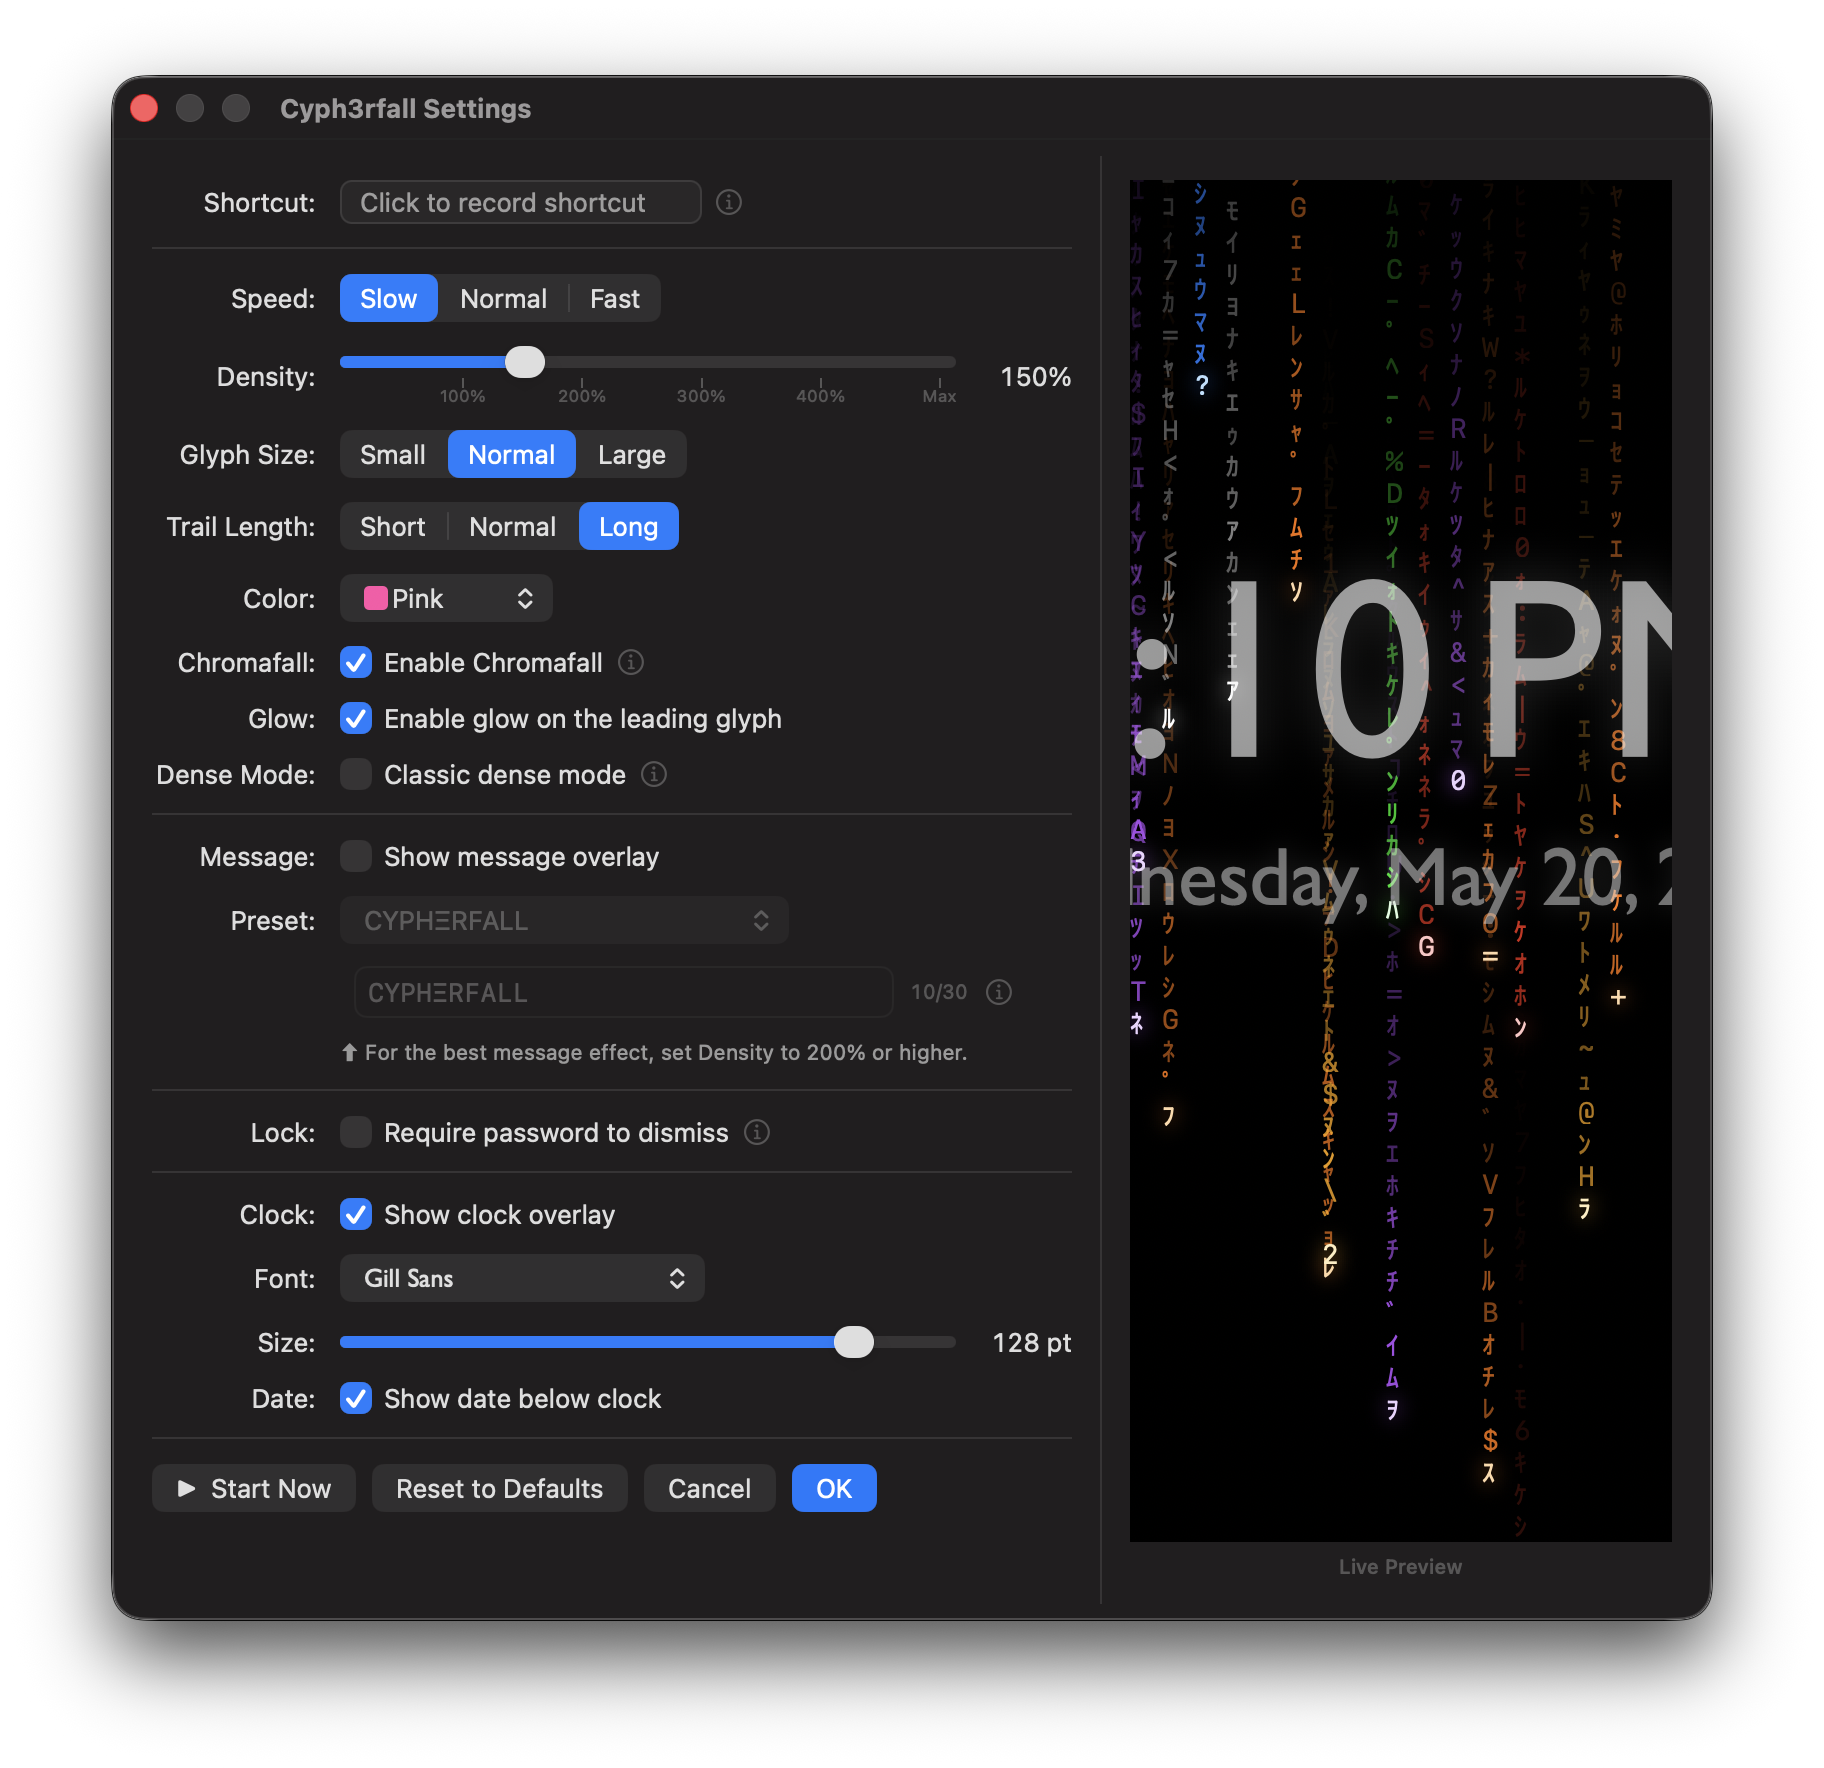
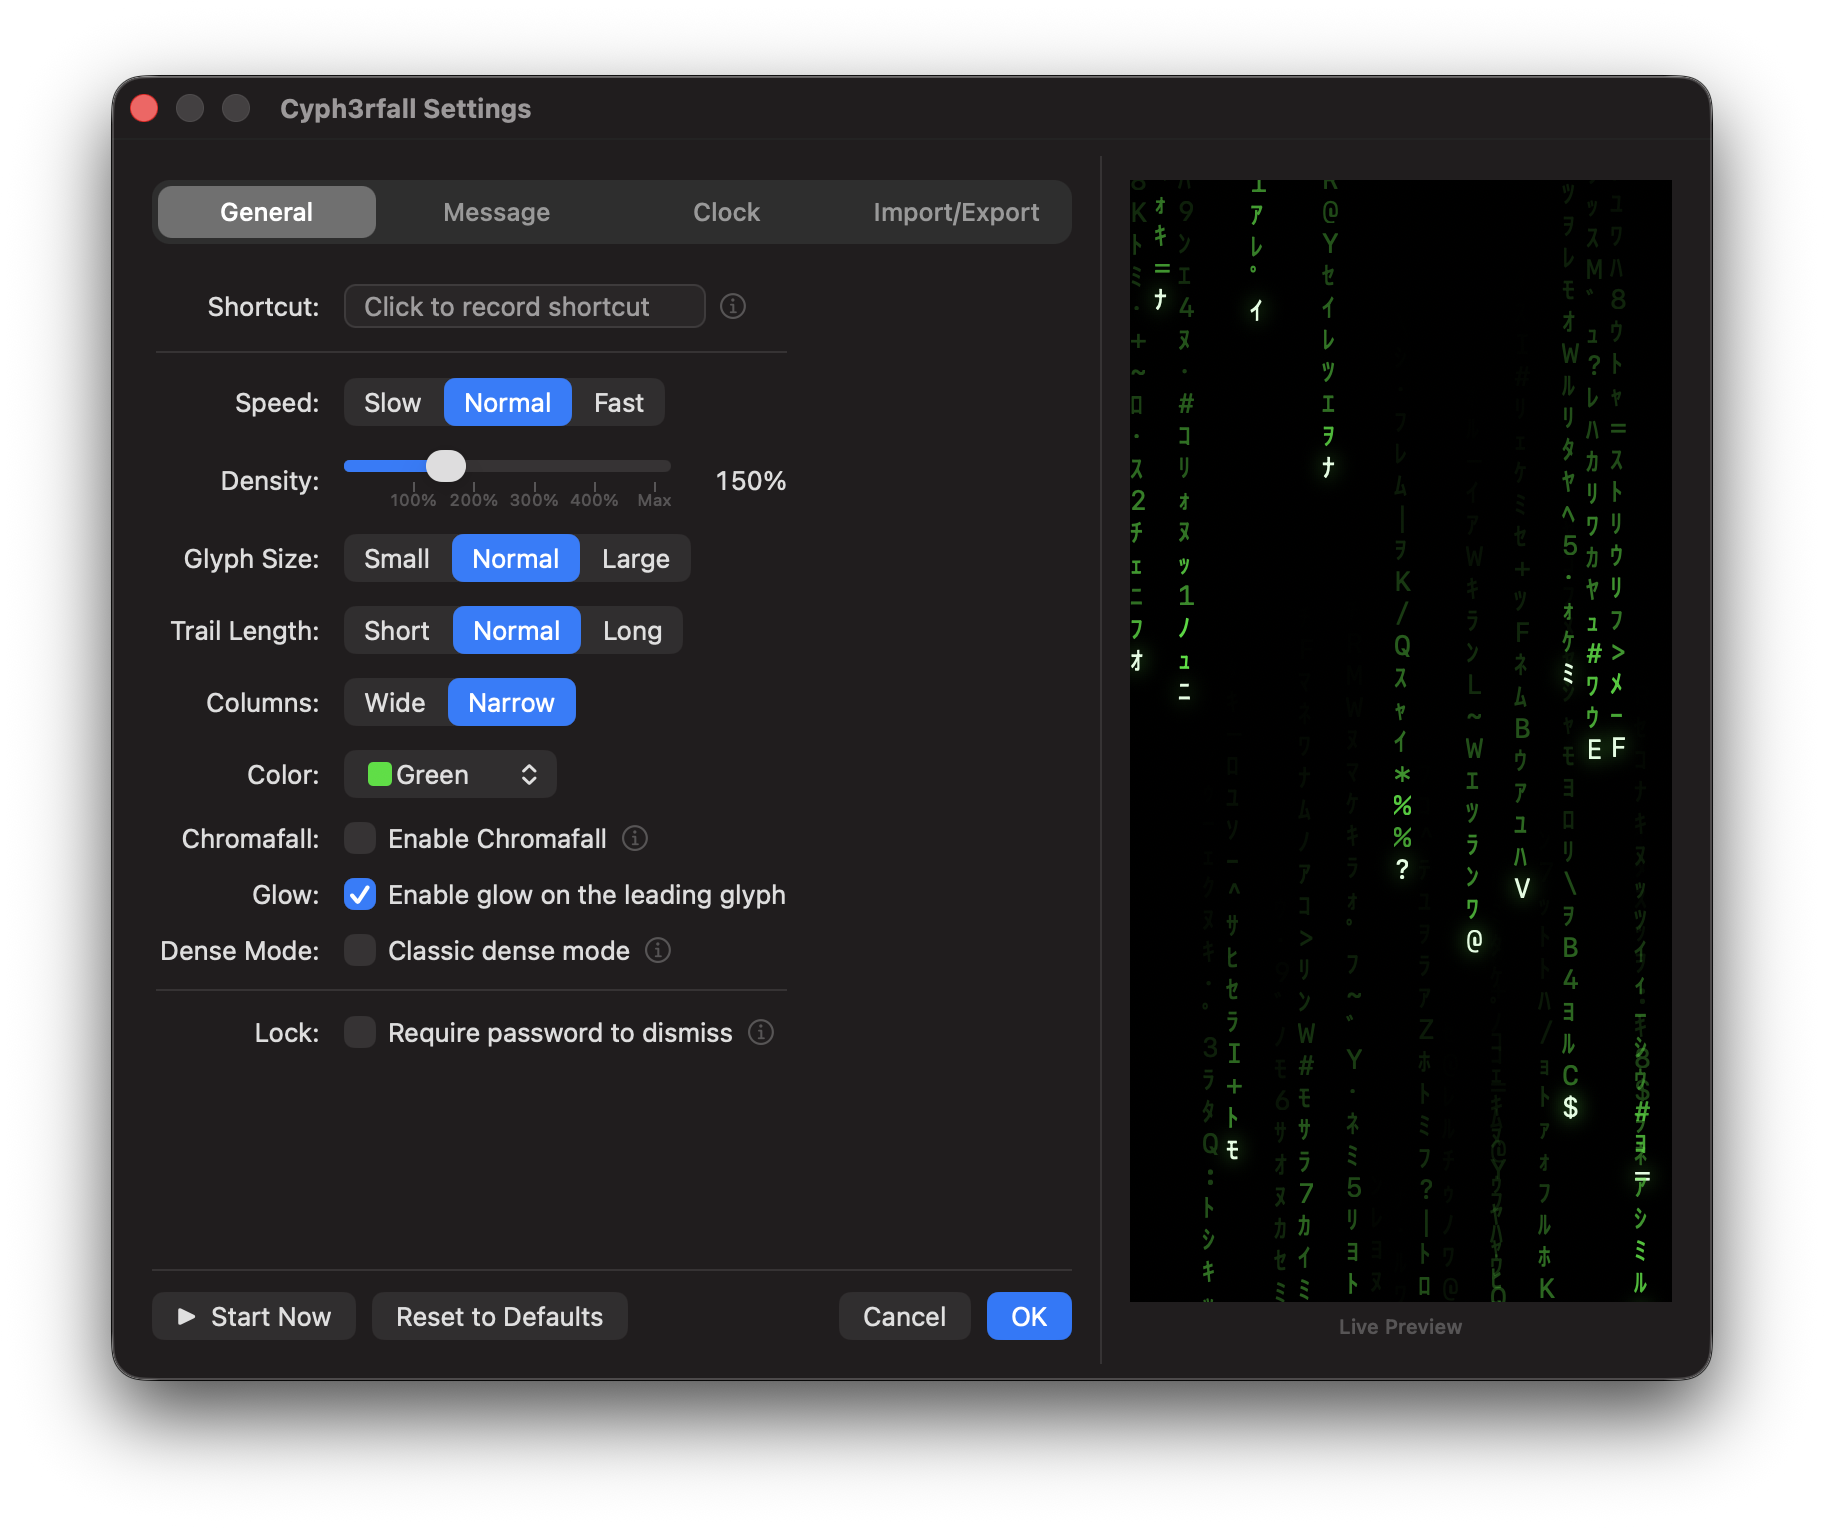
Add v1.1 screenshots and tabbed screenshot gallery to website
Replace the single settings screenshot with a four-tab interactive
gallery (General, Message, Clock, Import/Export). Add the Chromafall
hero screenshot as a full-width showcase above the What's New section.

diff --git a/docs/index.html b/docs/index.html
@@ -197,7 +197,7 @@
       margin: 0 2rem;
     }
 
-    /* ── Settings screenshot ────────────────────────────── */
+    /* ── Settings screenshot gallery ───────────────────── */
     .screenshot-wrap {
       margin: 3rem auto 0;
       max-width: 780px;
@@ -212,6 +212,67 @@
       display: block;
       width: 100%;
       height: auto;
+    }
+
+    /* Tab strip above the screenshot */
+    .screenshot-tabs {
+      display: flex;
+      justify-content: center;
+      gap: 0.5rem;
+      margin: 3rem auto 0.75rem;
+      max-width: 780px;
+    }
+
+    .screenshot-tab {
+      padding: 0.35rem 1rem;
+      border-radius: 999px;
+      font-size: 0.8rem;
+      font-weight: 600;
+      letter-spacing: 0.03em;
+      cursor: pointer;
+      border: 1px solid rgba(0, 224, 20, 0.25);
+      background: transparent;
+      color: rgba(0, 224, 20, 0.5);
+      transition: background 0.18s, color 0.18s, border-color 0.18s;
+    }
+
+    .screenshot-tab.active {
+      background: rgba(0, 224, 20, 0.12);
+      border-color: rgba(0, 224, 20, 0.55);
+      color: #00e014;
+    }
+
+    .screenshot-tab:hover:not(.active) {
+      border-color: rgba(0, 224, 20, 0.38);
+      color: rgba(0, 224, 20, 0.75);
+    }
+
+    .screenshot-gallery {
+      margin: 0 auto;
+      max-width: 780px;
+      border-radius: 14px;
+      overflow: hidden;
+      box-shadow: 0 0 0 1px rgba(0, 224, 20, 0.15),
+                  0 8px 40px rgba(0, 0, 0, 0.6),
+                  0 0 60px rgba(0, 224, 20, 0.08);
+      position: relative;
+    }
+
+    .screenshot-gallery img {
+      display: block;
+      width: 100%;
+      height: auto;
+      position: absolute;
+      top: 0; left: 0;
+      opacity: 0;
+      transition: opacity 0.22s ease;
+      pointer-events: none;
+    }
+
+    .screenshot-gallery img.active {
+      opacity: 1;
+      position: relative;
+      pointer-events: auto;
     }
 
     /* ── Features grid ──────────────────────────────────── */
@@ -253,6 +314,41 @@
       color: var(--text-dim);
       line-height: 1.6;
     }
+
+    /* ── What's New ─────────────────────────────────────── */
+    .changelog {
+      margin-top: 2.5rem;
+      display: flex;
+      flex-direction: column;
+      gap: 1rem;
+    }
+
+    .changelog-item {
+      display: flex;
+      gap: 1.25rem;
+      align-items: flex-start;
+      padding: 1.2rem 1.5rem;
+      border-radius: var(--radius);
+      border: 1px solid rgba(0, 224, 20, 0.12);
+      background: rgba(0, 56, 5, 0.14);
+      transition: border-color 0.2s, background 0.2s;
+    }
+
+    .changelog-item:hover {
+      border-color: rgba(0, 224, 20, 0.28);
+      background: rgba(0, 56, 5, 0.24);
+    }
+
+    .changelog-icon { font-size: 1.4rem; flex-shrink: 0; margin-top: 0.1rem; }
+
+    .changelog-title {
+      font-size: 0.98rem;
+      font-weight: 600;
+      color: var(--head);
+      margin-bottom: 0.25rem;
+    }
+
+    .changelog-desc { font-size: 0.88rem; color: var(--text-dim); line-height: 1.6; }
 
     /* ── About ──────────────────────────────────────────── */
     #about { background: rgba(0, 56, 5, 0.08); }
@@ -394,6 +490,7 @@
     <p class="hero-subtitle">Ambient Digital Rain for macOS</p>
 
     <div class="hero-badges">
+      <span class="badge" style="border-color:rgba(0,224,20,0.6);color:var(--green);">v1.1 — Now Available</span>
       <span class="badge">Free &amp; Open Source</span>
       <span class="badge">Swift &amp; AppKit</span>
       <span class="badge">macOS 14+</span>
@@ -408,7 +505,7 @@
       </svg>
       Download Latest Release
     </a>
-    <p class="download-note">macOS 14 Sonoma or later &nbsp;·&nbsp; Free forever</p>
+    <p class="download-note">v1.1 &nbsp;·&nbsp; macOS 14 Sonoma or later &nbsp;·&nbsp; Free forever</p>
   </div>
 
   <div class="scroll-hint">↓ &nbsp; scroll</div>
@@ -419,11 +516,22 @@
   <p class="section-label">Features</p>
   <h2 class="section-title">Everything you need.<br>Nothing you don't.</h2>
 
-  <div class="screenshot-wrap">
-    <img
-      class="settings-screenshot"
-      src="settings-screenshot.png"
-      alt="Cyph3rfall Settings panel showing speed, density, colour, Chromafall, message overlay, lock, and clock options alongside a live preview of the rain.">
+  <div class="screenshot-tabs" role="tablist" aria-label="Settings tabs">
+    <button class="screenshot-tab active" onclick="showTab(0)" aria-selected="true">General</button>
+    <button class="screenshot-tab" onclick="showTab(1)" aria-selected="false">Message</button>
+    <button class="screenshot-tab" onclick="showTab(2)" aria-selected="false">Clock</button>
+    <button class="screenshot-tab" onclick="showTab(3)" aria-selected="false">Import/Export</button>
+  </div>
+
+  <div class="screenshot-gallery" id="screenshotGallery">
+    <img class="active" src="settings-screenshot.png"
+      alt="General tab — speed, density, glyph size, trail length, column spacing, colour preset, Chromafall, glow, dense mode, and password lock settings, with a live rain preview.">
+    <img src="settings-message.png"
+      alt="Message tab — show message overlay toggle, preset selector, and custom message text field.">
+    <img src="settings-clock.png"
+      alt="Clock tab — show clock overlay toggle, font picker, size slider, date toggle, and clock colour preset option.">
+    <img src="settings-importexport.png"
+      alt="Import/Export tab — Export Settings and Import Settings buttons for backing up and restoring your preferences.">
   </div>
 
   <div class="features-grid">
@@ -500,6 +608,90 @@
       <p class="feature-desc">Pure Swift and AppKit. No third-party dependencies, no screensaver framework workarounds. Just a native Mac app doing its thing.</p>
     </div>
 
+    <div class="feature-card">
+      <span class="feature-icon">🔄</span>
+      <div class="feature-title">Auto Update Check</div>
+      <p class="feature-desc">Checks GitHub for new releases on launch and shows a banner in the menu when one is available. Trigger a manual check any time from the About panel.</p>
+    </div>
+
+    <div class="feature-card">
+      <span class="feature-icon">⬛</span>
+      <div class="feature-title">Column Spacing</div>
+      <p class="feature-desc">Switch between Wide and Narrow column density. Narrow packs columns 25% closer together for a denser, more intense rain effect.</p>
+    </div>
+
+    <div class="feature-card">
+      <span class="feature-icon">🎨</span>
+      <div class="feature-title">Clock Colour Presets</div>
+      <p class="feature-desc">Optionally tie the clock overlay colour to your active rain preset. Toggle it on and the clock tints itself to match — toggle it off for the classic neutral white.</p>
+    </div>
+
+    <div class="feature-card">
+      <span class="feature-icon">💾</span>
+      <div class="feature-title">Settings Backup</div>
+      <p class="feature-desc">Export your entire configuration to a JSON file and import it back any time. Great for backing up your setup or sharing settings between Macs.</p>
+    </div>
+
+  </div>
+
+  <!-- Chromafall showcase -->
+  <div class="screenshot-wrap" style="margin-top: 3rem;">
+    <img class="settings-screenshot" src="hero-chromafall.png"
+      alt="Cyph3rfall in Chromafall mode — every column in a different colour, with the clock overlay showing the time and date in the centre of the screen.">
+  </div>
+
+</section>
+
+<hr class="divider">
+
+<!-- ══ WHAT'S NEW ════════════════════════════════════════════ -->
+<section id="whats-new">
+  <p class="section-label">What's New</p>
+  <h2 class="section-title">Version 1.1</h2>
+  <p class="section-body">A focused feature release adding new customisation options, smarter settings management, and a redesigned settings panel.</p>
+
+  <div class="changelog">
+
+    <div class="changelog-item">
+      <span class="changelog-icon">🗂</span>
+      <div>
+        <div class="changelog-title">Redesigned Settings Panel</div>
+        <p class="changelog-desc">Settings are now organised into tabs — General, Message, Clock, and Import/Export. Controls for disabled features are automatically grayed out, and tabs slide between pages with a smooth animation.</p>
+      </div>
+    </div>
+
+    <div class="changelog-item">
+      <span class="changelog-icon">🔄</span>
+      <div>
+        <div class="changelog-title">Automatic Update Check</div>
+        <p class="changelog-desc">Cyph3rfall checks GitHub for new releases on every launch and shows a banner in the menu when one is available. You can also trigger a manual check from the About panel at any time.</p>
+      </div>
+    </div>
+
+    <div class="changelog-item">
+      <span class="changelog-icon">💾</span>
+      <div>
+        <div class="changelog-title">Export &amp; Import Settings</div>
+        <p class="changelog-desc">Save your entire configuration to a JSON file and restore it whenever you like. Visual settings are included; your password lock and keyboard shortcut are excluded for security.</p>
+      </div>
+    </div>
+
+    <div class="changelog-item">
+      <span class="changelog-icon">⬛</span>
+      <div>
+        <div class="changelog-title">Column Spacing Control</div>
+        <p class="changelog-desc">New Wide / Narrow toggle in the General tab. Narrow packs columns 25% closer together for a denser, more intense rain — Wide restores the original spacing.</p>
+      </div>
+    </div>
+
+    <div class="changelog-item">
+      <span class="changelog-icon">🎨</span>
+      <div>
+        <div class="changelog-title">Clock Colour Tied to Rain Preset</div>
+        <p class="changelog-desc">A new checkbox in the Clock tab tints the clock overlay to match your active colour preset — head colour for the time, foreground colour for the date. Toggle it off for the classic neutral white.</p>
+      </div>
+    </div>
+
   </div>
 </section>
 
@@ -558,7 +750,7 @@
   </div>
 
   <div class="callout">
-    ⚠ <strong>First-launch security prompt:</strong> Cyph3rfall is signed but not notarized through Apple's paid developer program. macOS will block it on the first open — right-click the app and choose <strong>Open</strong> to approve it. You will only need to do this once.
+    ⚠ <strong>First-launch security prompt:</strong> macOS may block the app on first open — right-click and choose <strong>Open</strong> to approve it. You will only need to do this once.
   </div>
 
   <div class="callout" style="margin-top:1rem; border-color:rgba(0,224,20,0.2); background:rgba(0,56,5,0.15); color:var(--text);">
@@ -699,6 +891,21 @@
   resize();
   requestAnimationFrame(tick);
 })();
+</script>
+
+<script>
+// Screenshot tab switcher
+function showTab(index) {
+  const tabs  = document.querySelectorAll('.screenshot-tab');
+  const imgs  = document.querySelectorAll('#screenshotGallery img');
+  tabs.forEach((t, i) => {
+    t.classList.toggle('active', i === index);
+    t.setAttribute('aria-selected', i === index ? 'true' : 'false');
+  });
+  imgs.forEach((img, i) => {
+    img.classList.toggle('active', i === index);
+  });
+}
 </script>
 
 </body>
